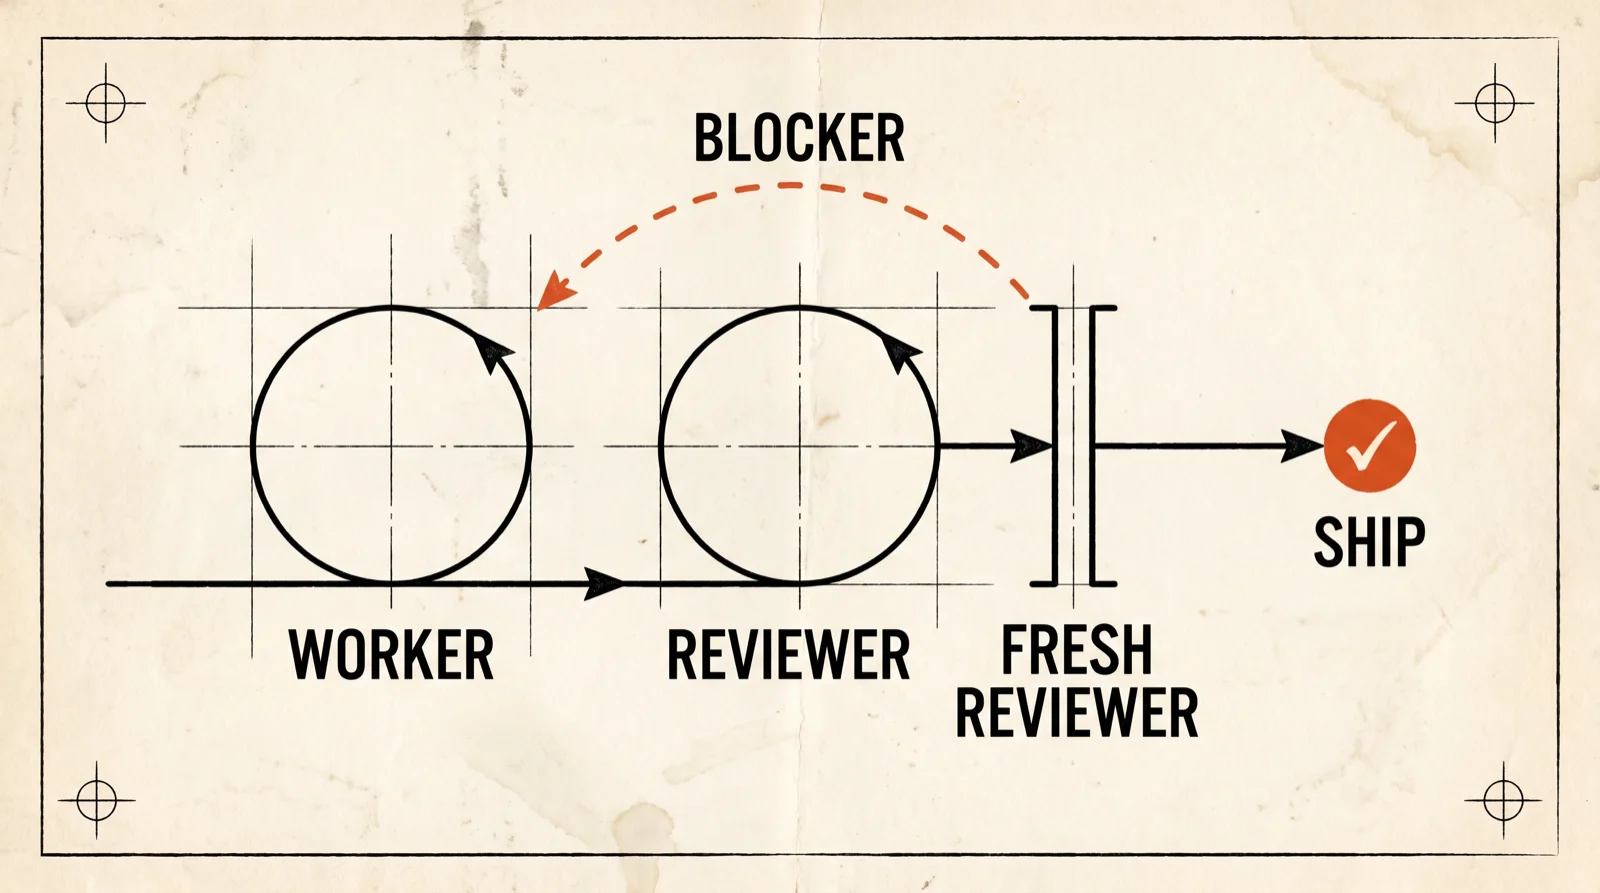
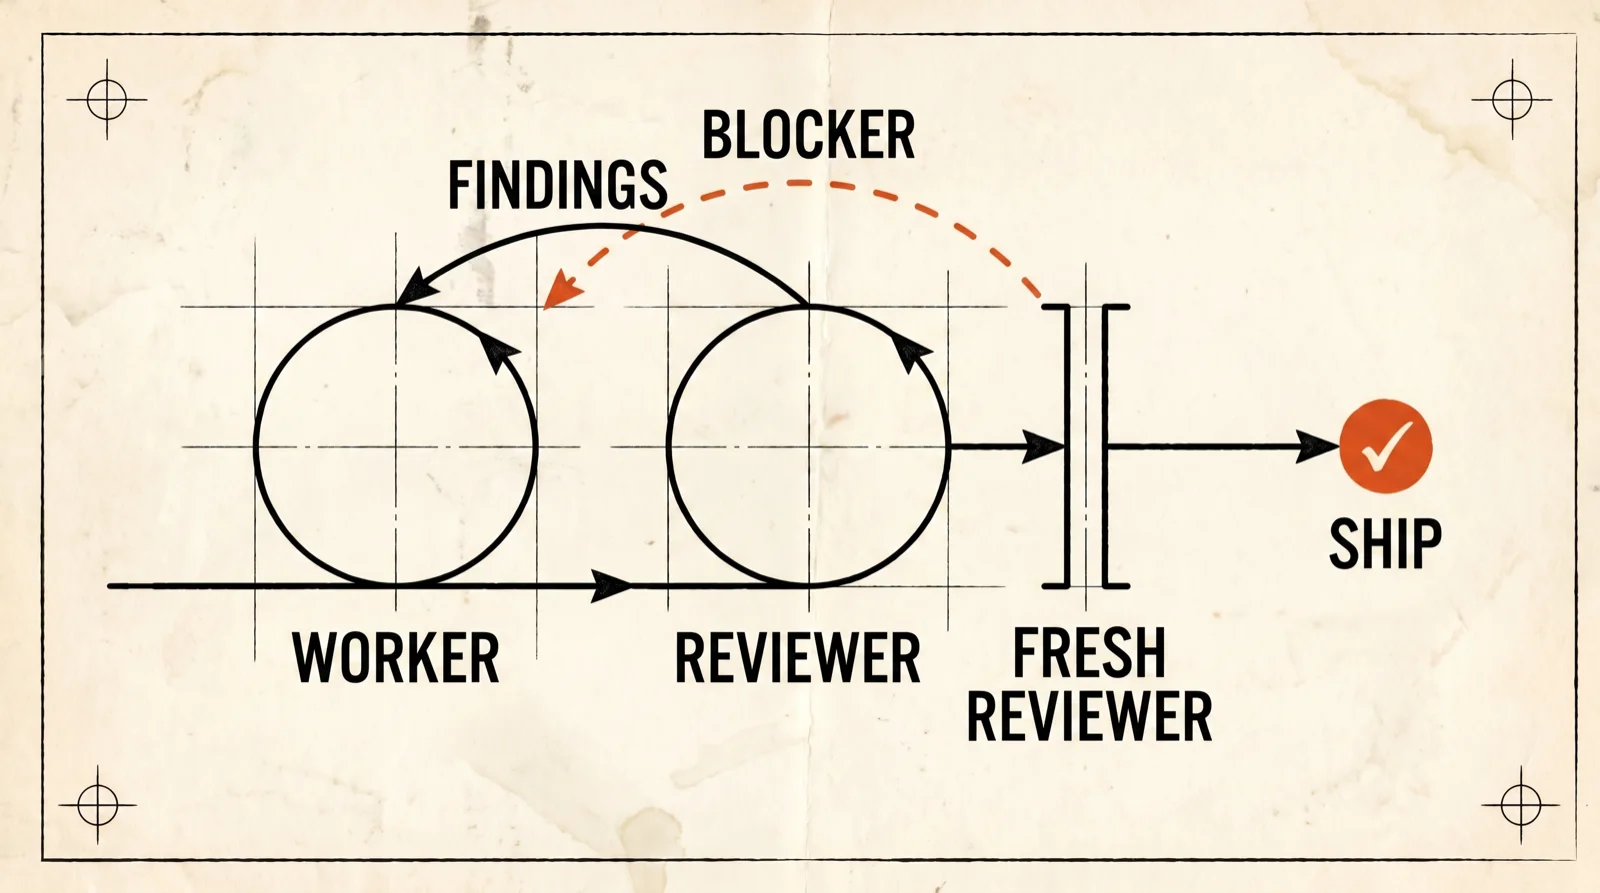
docs(assets): add the reviewer-to-worker findings arrow to the gate figure
The gate schematic showed only the forward worker-to-reviewer hand-off and
the blocker deflection; the inner repair cycle (review findings returning
to the same worker session) had no arrow. Add the symmetric FINDINGS
return arc via a reference-image edit pass and archive the prompt.

Claude-Session: https://claude.ai/code/session_01FUiQB1V46Bmt3iYeW8WRfF

diff --git a/docs/assets/art-prompts.md b/docs/assets/art-prompts.md
@@ -87,3 +87,12 @@ different spiral.
 > back above the loops toward the start, labeled in LARGE capitals 'BLOCKER'. Exactly
 > these five labels, all set large; arrowheads on the path showing direction; no other
 > text.
+
+Then a second edit pass (reference: the generated gate image) added the inner repair
+cycle:
+
+> ADD ONE element: a solid BLACK ink return arrow from the top of the REVIEWER loop
+> back to the top of the WORKER loop, a gentle arc mirroring the black forward arrow
+> at the bottom, arrowhead pointing left into the WORKER loop, labeled in LARGE
+> hand-set capitals 'FINDINGS' just above it, staying BELOW the red dashed BLOCKER
+> arc. No other changes.
